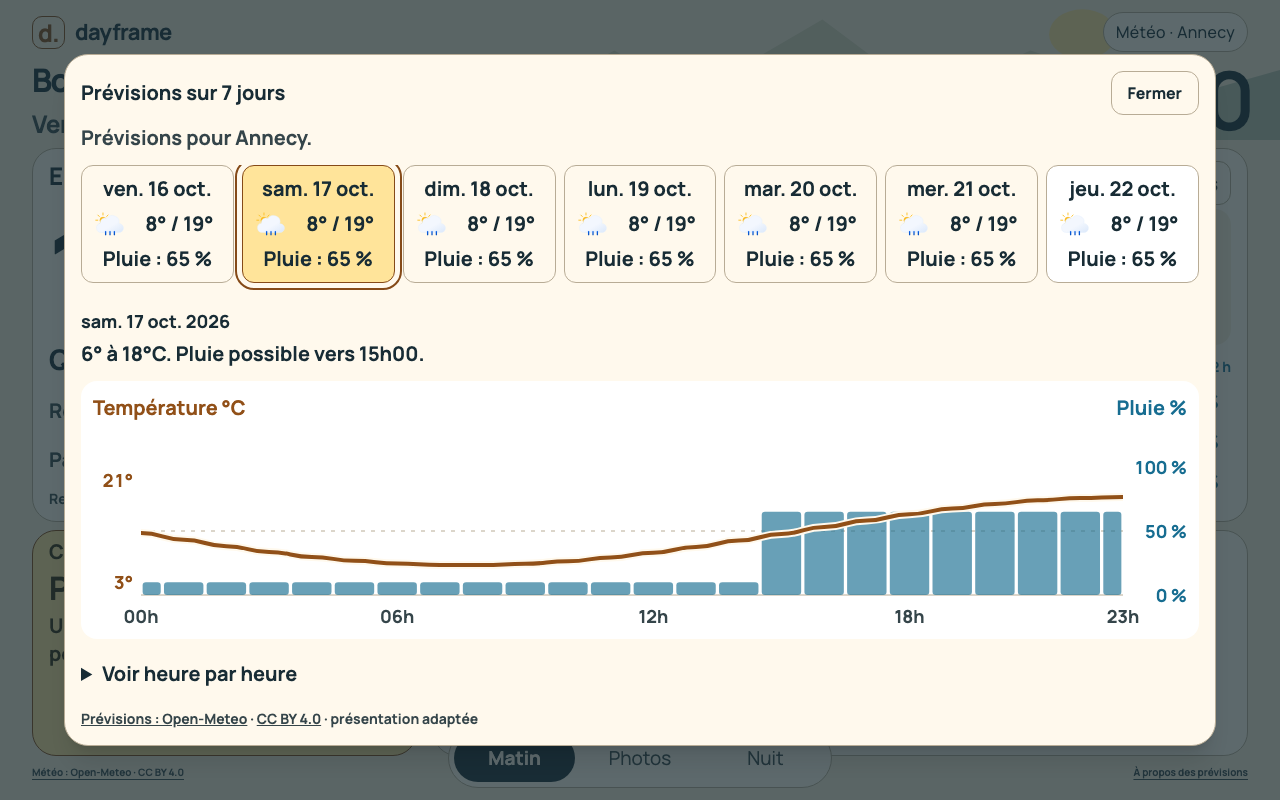
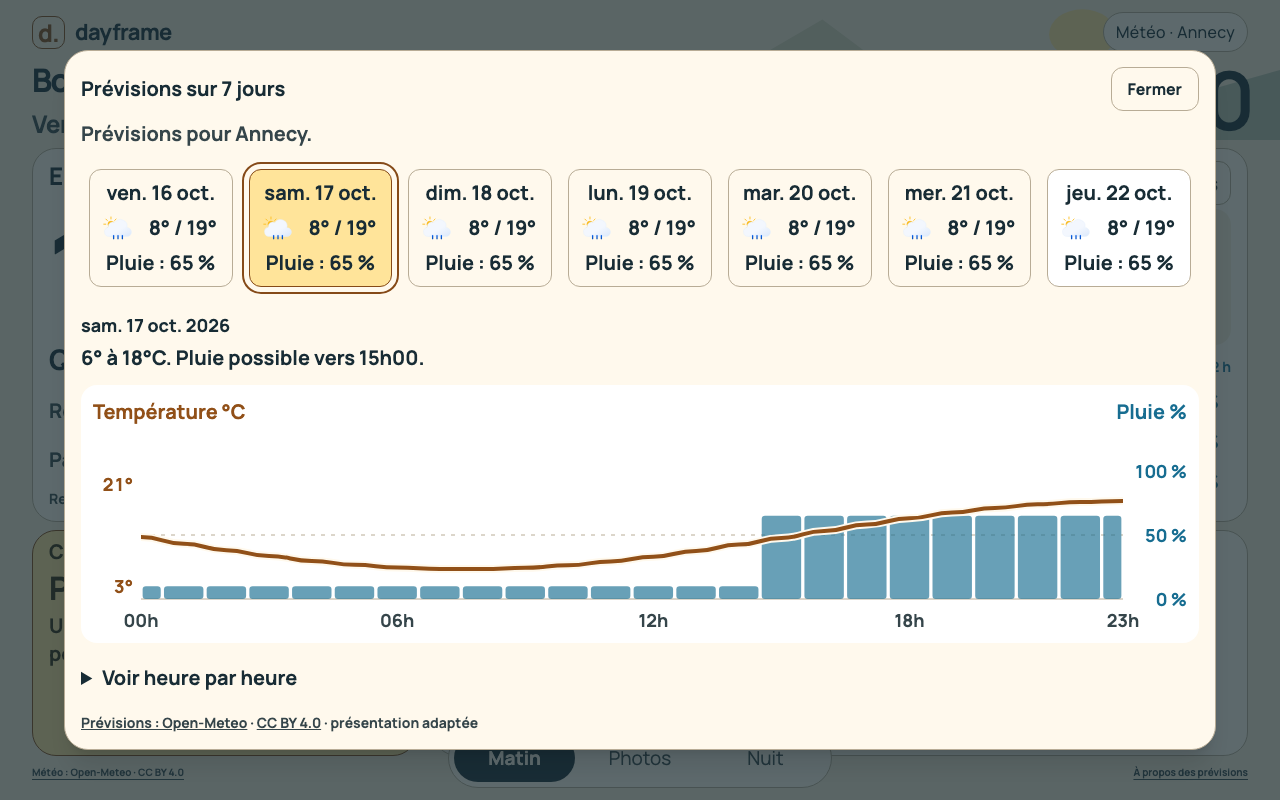
fix(weather): preserve complete forecast focus outlines

diff --git a/tests/e2e/weather.spec.ts b/tests/e2e/weather.spec.ts
@@ -1051,3 +1051,41 @@ test('partial hourly coverage is labeled without inventing earlier hours', async
     .getAttribute('d');
   expect(fullPath!.match(/M/gv)).toHaveLength(1);
 });
+
+test('forecast day buttons keep their complete focus outlines inside the scrolling strip', async ({
+  page,
+}) => {
+  await page.route('https://api.open-meteo.com/**', async (route) =>
+    route.fulfill({json: sevenDayFixture()}),
+  );
+  await page.goto('/');
+  await page.getByRole('button', {name: 'Prévisions sur 7 jours'}).click();
+  const dialog = page.getByRole('dialog');
+  const strip = dialog.locator('[data-future-days]');
+  // Establish keyboard modality; Safari's Tab cycle depends on platform preferences.
+  await page.keyboard.press('Tab');
+  for (const index of [0, 3, 6]) {
+    const day = strip.locator('button').nth(index);
+    await day.focus();
+    await page.keyboard.press('Enter');
+    await expect(day).toBeFocused();
+    await expect(day).toHaveCSS('outline-style', 'solid');
+    const bounds = await day.evaluate((button) => {
+      const style = getComputedStyle(button);
+      const inset =
+        Number(style.outlineWidth.replace('px', '')) +
+        Number(style.outlineOffset.replace('px', ''));
+      const card = button.getBoundingClientRect();
+      const parent = button.parentElement!.getBoundingClientRect();
+      return {
+        left: card.left - inset - parent.left,
+        right: parent.right - card.right - inset,
+        top: card.top - inset - parent.top,
+        bottom: parent.bottom - card.bottom - inset,
+      };
+    });
+    for (const clearance of Object.values(bounds)) {
+      expect(clearance).toBeGreaterThanOrEqual(-1);
+    }
+  }
+});

diff --git a/docs/implementation-plan.md b/docs/implementation-plan.md
@@ -2374,3 +2374,26 @@ and unchanged request counts. Formatting and diff whitespace passed. Reviewed
 forecast and late-evening advice. This is local web evidence; no physical-device
 acceptance is claimed. The owner authorized commit and deployment on 29 October;
 the main-push release gate and independent live verification follow below.
+
+### Forecast focus-outline correction — 29 October 2026
+
+The owner noticed clipped button outlines in the previews while the authorized
+release of `b434c3e` was checking. Confirmed the borders were present; the horizontal
+day strip clipped the outside keyboard-focus ring because it had no top/side
+padding. Partially visible neighbouring phone cards remain an intentional scroll
+affordance. Add 8 px strip/scroll padding and a 16 px gap so the complete ring
+fits, including the first and last selected cards. This uses literal UnoCSS
+utilities; the upstream hierarchy/provenance review above still applies and no
+upstream code/assets are copied.
+
+Cancelled [40830448603](https://github.com/codyzu/dayframe/actions/runs/40830448603)
+before any deployment ran. The production build remained
+`6fcd305d-b059-497a-b9e2-eddeb7ebd111`. Added a focused geometry assertion for
+first/middle/last rings under keyboard modality across four browser projects;
+Safari's native Tab cycle depends on platform preferences, so the test establishes
+keyboard modality then focuses each card before activating it. Existing full-graph
+phone and frame-fit assertions remain. Types, lint (four existing warnings) and
+build passed. All 16 focused browser checks passed, including complete ring
+clearance and full graph visibility. Reviewed and refreshed the frame/phone
+previews in [weather evidence](evidence/weather-outlook/README.md). The corrected
+main-push release and live verification follow below.

diff --git a/docs/evidence/weather-outlook/README.md b/docs/evidence/weather-outlook/README.md
@@ -16,3 +16,8 @@ changes, keyboard selection, focus restoration, reopening with today's graph and
 collapsed details, idle closure, and one shared weather request. See the dated
 implementation-plan entry for final command results. Production deployment and
 physical Classic 10/iPhone acceptance remain separate.
+
+The frame and phone forecast previews were refreshed on 29 October after reserving
+space around day cards for their complete keyboard-focus outlines. A partially
+visible neighbouring card on the phone indicates horizontal scrolling; the focused
+card's outline must remain inside the strip on all four sides.
